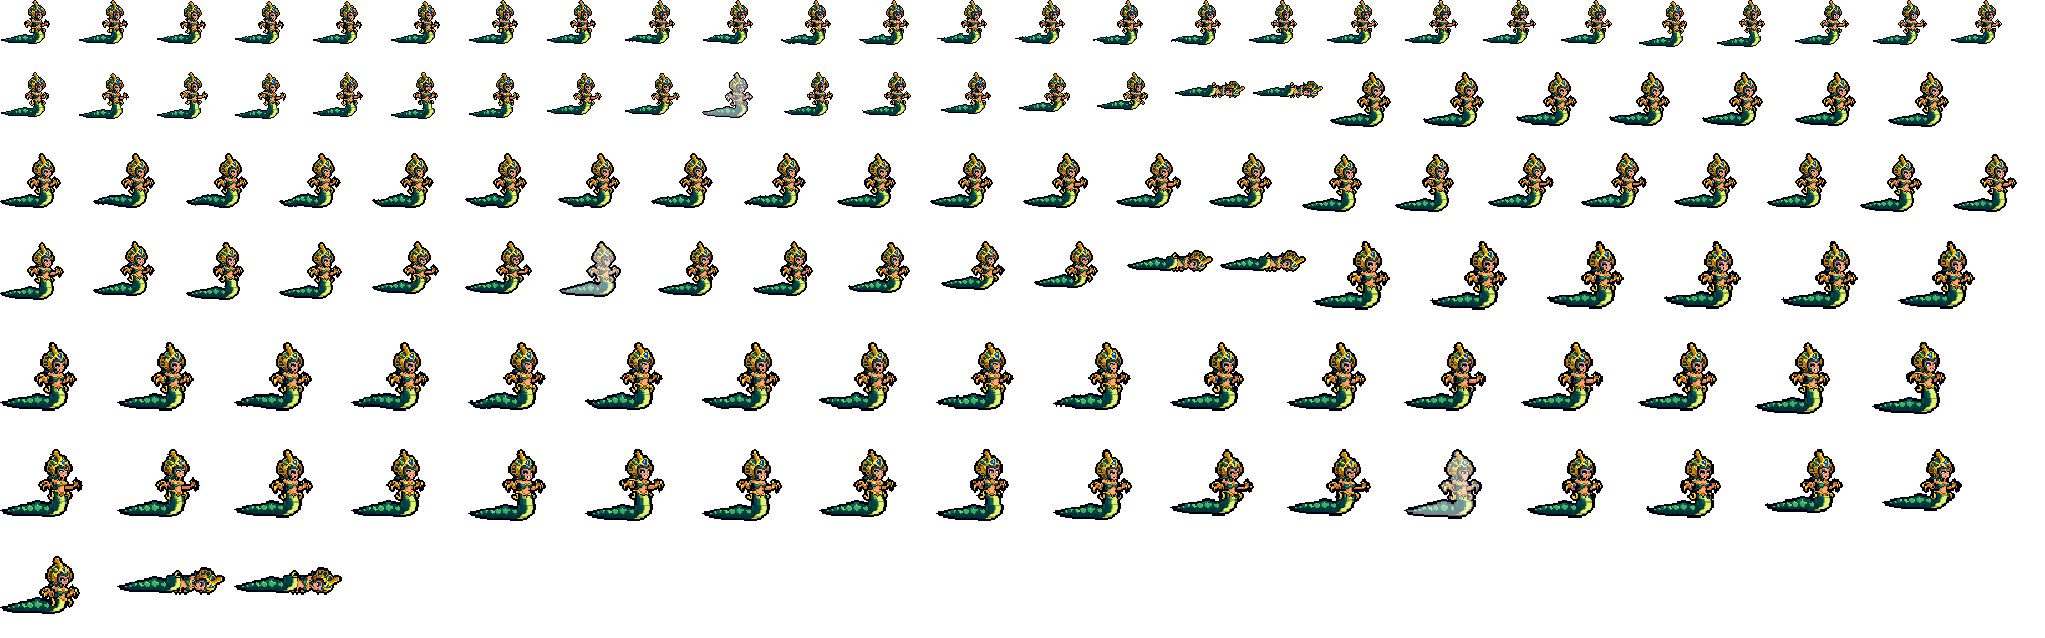
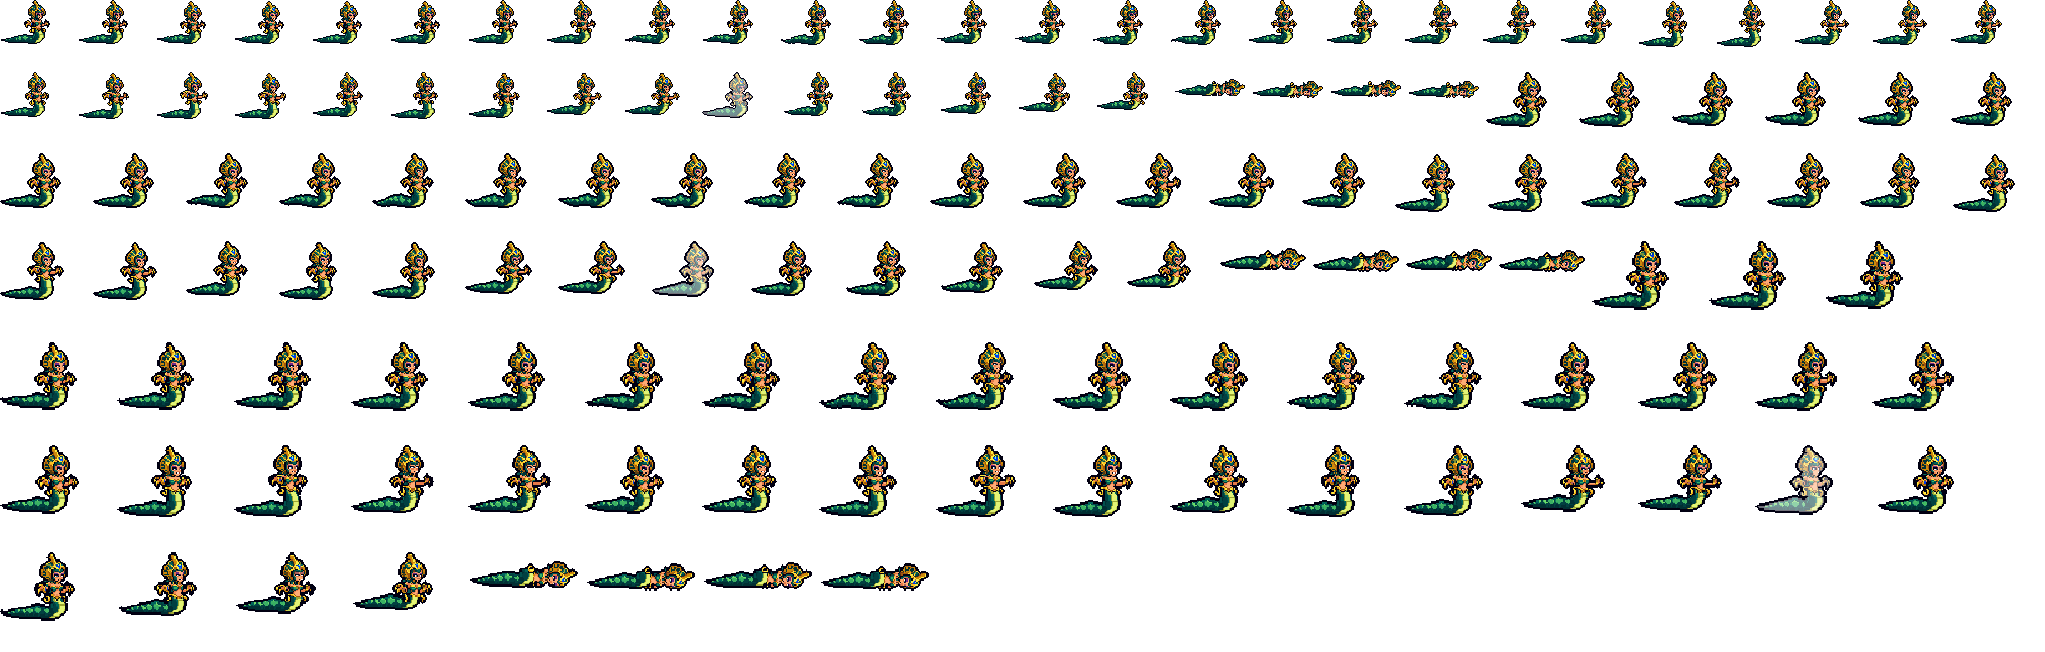
Cassiopeia: death 8 frames
2026-10-19 frame audit: her Q (rearing up) and R (the lunge, bend 4) already follow League's clips; a deeper R lunge
(bend 5-7) sheared the neck's pale belly thin, so it stays. The death lands from 2 rows up, lies, bounces a row,
lies, as the pack's others. Every other tag pixel-identical.

diff --git a/tools/art/rig_cassiopeia.py b/tools/art/rig_cassiopeia.py
@@ -350,7 +350,7 @@ def tries(F):
 # ms per frame; the kit's ticks (tools/kit/build_cassiopeia.py) come from these
 MS = {"idle": [150] * 8, "run": [90] * 8, "attack": [70, 70, 90, 90, 80], "skill": [70, 70, 90, 90, 80],
       "skill2": [70, 80, 90, 100, 110], "ult": [120, 130, 150, 150], "hit": [100, 100],
-      "dead": [100, 110, 120, 150, 200, 500]}
+      "dead": [100, 110, 120, 150, 60, 100, 60, 500]}
 
 
 def frames_all(F):
@@ -384,8 +384,15 @@ def frames_all(F):
         out_[rig.GY:] = 0
         return out_
     fallen = F.lying()
+
+    # (8 frames since the 2026-10-19 frame audit: the fall lands from 2 rows up, lies, bounces a row, lies)
+    def off(n):
+        f = np.zeros_like(fallen)
+        f[:-n] = fallen[n:]
+        return f
     out["dead"] = [p(bend=-1, whole=(-1, 0), tail=tip(1)), p(lift=-3, bend=1, tail=tip(1)),
-                   ground(p(lift=-6, bend=3)), ground(p(lift=-8, bend=4, far=-1)), fallen, fallen.copy()]
+                   ground(p(lift=-6, bend=3)), ground(p(lift=-8, bend=4, far=-1)), off(2), fallen, off(1),
+                   fallen.copy()]
     return out
 
 
